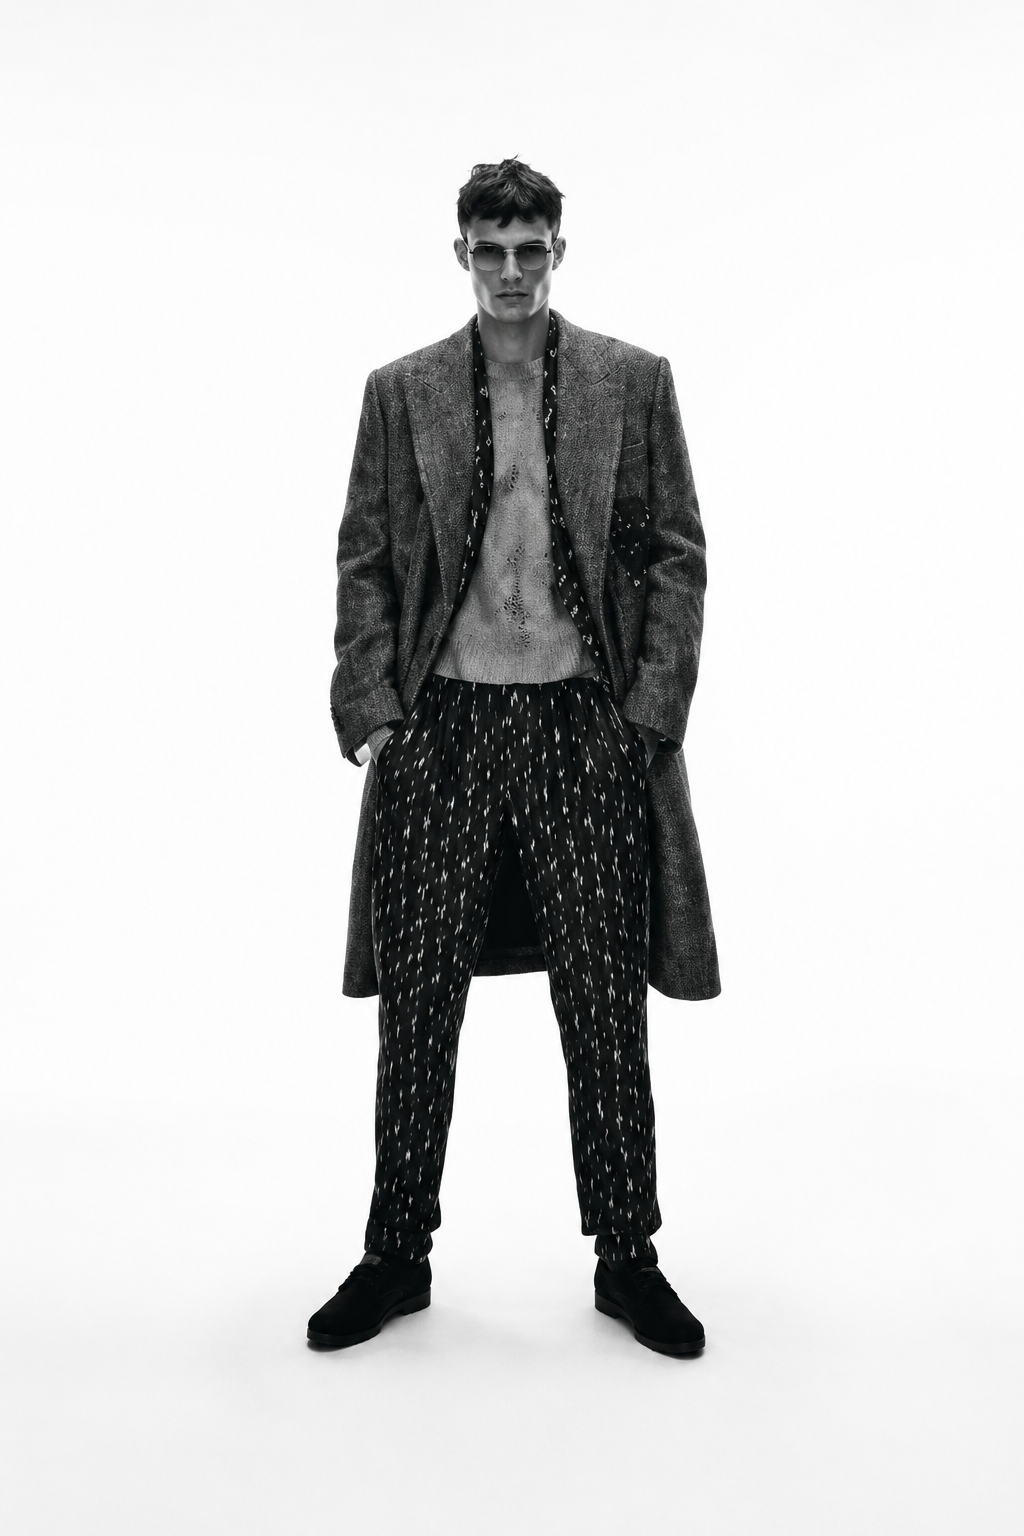
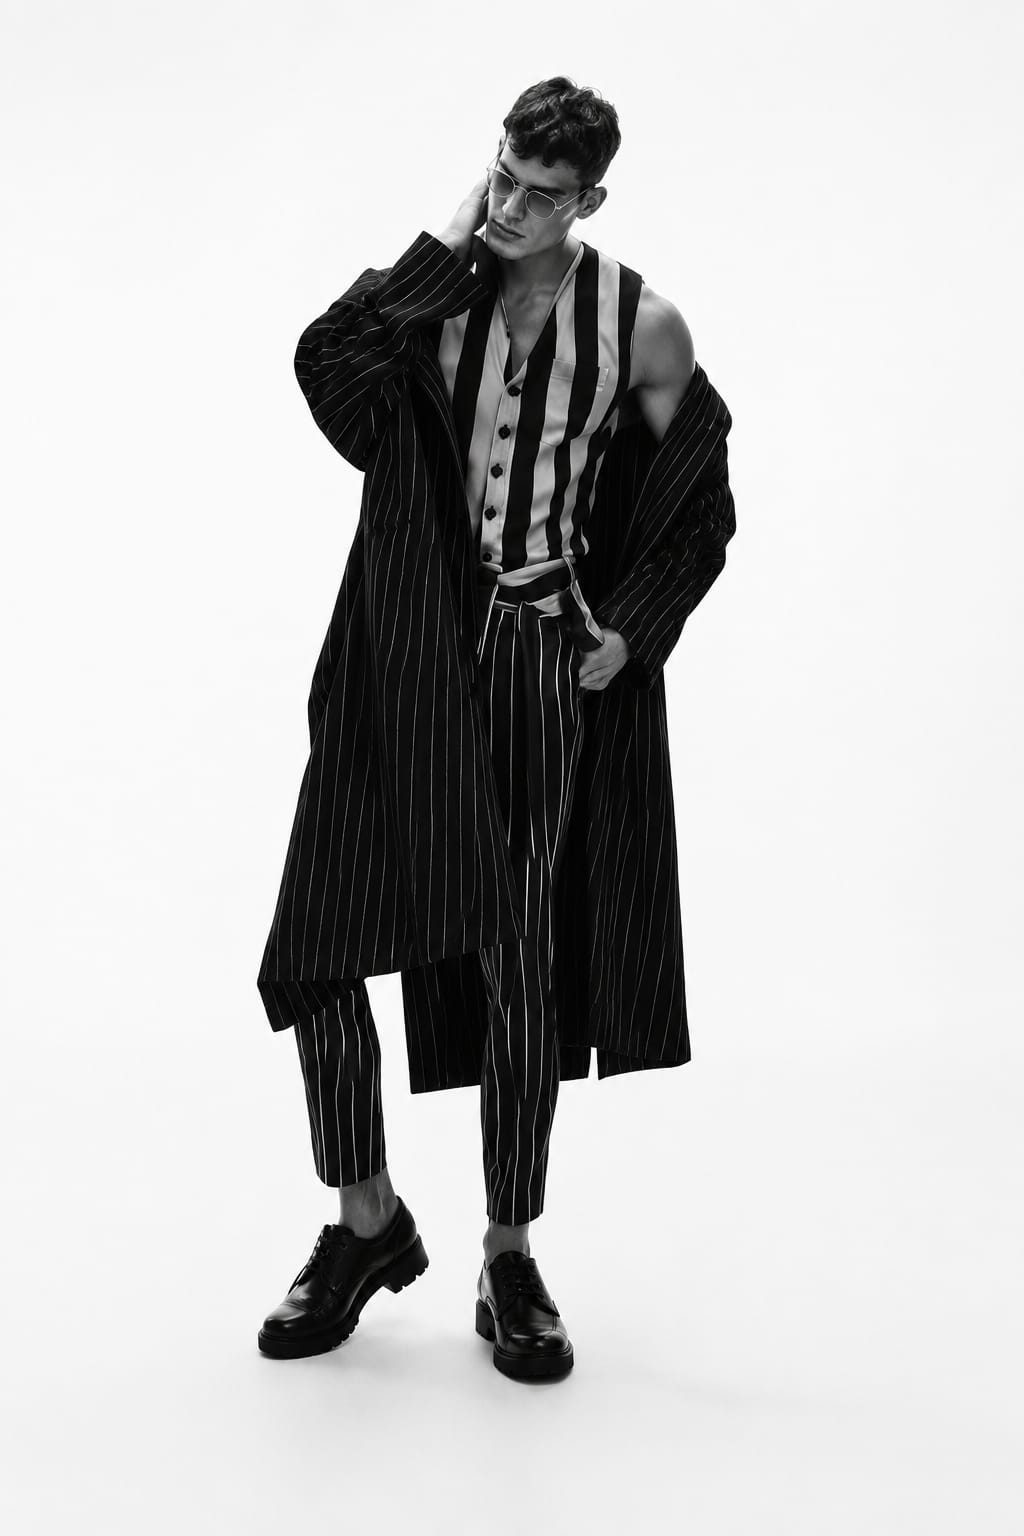
copy adjact pdf

Changed region(s): [[0.25, 0.0312, 0.7188, 0.9375]]

diff --git a/src/components/hustle-hour/Navbar.tsx b/src/components/hustle-hour/Navbar.tsx
@@ -1,4 +1,4 @@
-import React, { useState, useEffect } from 'react';
+import React, { useState } from 'react';
 import { Link, useNavigate } from 'react-router-dom';
 import { Menu, Search, ShoppingBag, User } from 'lucide-react';
 import { cn } from '../../lib/utils';
@@ -8,107 +8,117 @@ import Sidebar from './Sidebar';
 
 const Navbar: React.FC = () => {
     const navigate = useNavigate();
-    const [isScrolled, setIsScrolled] = useState(false);
     const [isSidebarOpen, setIsSidebarOpen] = useState(false);
+    const [isToggleOn, setIsToggleOn] = useState(false);
 
     const authState = useAuthStore((state) => state);
     const cartState = useAppralStore((state) => state.cart);
     const cartCount = cartState.data?.item_count ?? 0;
 
-    useEffect(() => {
-        const handleScroll = () => {
-            setIsScrolled(window.scrollY > 30);
-        };
-        window.addEventListener('scroll', handleScroll);
-        return () => window.removeEventListener('scroll', handleScroll);
-    }, []);
-
     return (
         <>
-            <nav
-                className={cn(
-                    "fixed top-0 left-0 w-full z-[1000] flex items-center justify-between px-6 md:px-12 lg:px-16 transition-all duration-500",
-                    isScrolled
-                        ? "glass-nav py-4 shadow-sm"
-                        : "bg-transparent py-7"
-                )}
-            >
-                {/* Left Side: Hamburger Menu & Elegant Logo */}
-                <div className="flex items-center gap-6 md:gap-8">
-                    <button
-                        onClick={() => setIsSidebarOpen(true)}
-                        className="p-2 -ml-2 hover:text-accent transition-colors text-foreground"
-                        aria-label="Open Sidebar Menu"
-                    >
-                        <Menu className="w-5 h-5 transition-transform duration-300 hover:scale-110" />
-                    </button>
-                    <Link 
-                        to="/" 
-                        className="font-display text-2xl md:text-3xl tracking-tighter text-foreground leading-none hover:text-accent transition-colors duration-300"
-                    >
-                        4.10<span className="text-accent">.</span>
-                    </Link>
+            <header className="fixed top-0 left-0 w-full z-[1000] flex flex-col border-b border-black/5 bg-background shadow-xs">
+                {/* Top Announcement Bar */}
+                <div className="w-full bg-[#1c1a17] text-white text-center py-2 flex items-center justify-center select-none">
+                    <span className="font-body text-[8.5px] sm:text-[9.5px] tracking-[0.25em] uppercase font-bold text-white/95">
+                        SPRING SALE LIVE NOW &nbsp;|&nbsp; UPTO 60% OFF
+                    </span>
                 </div>
 
-                {/* Center: High-Fashion Spaced Out Navigation Links (Desktop) */}
-                <ul className="hidden lg:flex gap-8 xl:gap-10 list-none absolute left-1/2 -translate-x-1/2 select-none">
-                    {['About', 'Hub', 'Timelines', 'Projects', 'Stories'].map((item) => (
-                        <li key={item}>
-                            <a
-                                href={`#${item.toLowerCase().replace(' ', '-')}`}
-                                className="link-underline font-body text-[9.5px] tracking-[0.25em] uppercase text-foreground/80 hover:text-foreground font-extrabold transition-all duration-300"
-                            >
-                                {item}
-                            </a>
-                        </li>
-                    ))}
-                </ul>
-
-                {/* Right Side: Interactive Action Icons & Call to Action */}
-                <div className="flex items-center gap-3 md:gap-6">
-                    {/* Search & Profile Icons */}
-                    <div className="hidden sm:flex items-center gap-5 mr-1 md:mr-3">
-                        <button 
-                            className="p-1 text-foreground/80 hover:text-accent transition-colors"
-                            aria-label="Search Collection"
-                        >
-                            <Search className="w-4 h-4 transition-transform hover:scale-105" />
-                        </button>
+                {/* Main Navbar */}
+                <nav className="w-full bg-background flex items-center justify-between px-6 md:px-12 lg:px-16 py-4.5 select-none relative">
+                    {/* Left Side: Toggle switch, Links, and Hamburger for Mobile */}
+                    <div className="flex items-center gap-4 sm:gap-6 lg:gap-8">
                         <button
-                            onClick={() => authState.isAuthenticated ? navigate('/profile') : navigate('/login')}
-                            className="p-1 text-foreground/80 hover:text-accent transition-colors relative"
-                            aria-label="User Account Profile"
+                            onClick={() => setIsSidebarOpen(true)}
+                            className="lg:hidden p-1.5 -ml-1 text-[#1c1a17] hover:opacity-75 transition-opacity"
+                            aria-label="Open Sidebar Menu"
                         >
-                            <User className="w-4 h-4 transition-transform hover:scale-105" />
-                            {authState.isAuthenticated && (
-                                <span className="absolute top-0.5 right-0.5 bg-accent rounded-full w-1.5 h-1.5" />
-                            )}
+                            <Menu className="w-5 h-5 stroke-[1.75]" />
                         </button>
+                        
+                        {/* Capsule Toggle Switch */}
+                        <div 
+                            onClick={() => setIsToggleOn(prev => !prev)}
+                            className="w-[38px] h-[20px] rounded-full bg-[#1c1a17] p-[2.5px] transition-all duration-300 relative cursor-pointer flex items-center shadow-xs select-none"
+                        >
+                            <div 
+                                className={cn(
+                                    "w-[15px] h-[15px] rounded-full bg-white transition-all duration-300 shadow-xs",
+                                    isToggleOn ? "translate-x-[18px]" : "translate-x-0"
+                                )}
+                            />
+                        </div>
+
+                        {/* Navigation Links (Desktop) */}
+                        <ul className="hidden lg:flex items-center gap-6 xl:gap-8 list-none select-none">
+                            <li>
+                                <Link 
+                                    to="/products" 
+                                    className="font-body text-[11.5px] font-black tracking-[0.2em] uppercase text-[#10b981] hover:text-[#0b7f58] transition-colors duration-300"
+                                >
+                                    SALE
+                                </Link>
+                            </li>
+                            {['SHOP', 'ABOUT', 'BLOG'].map((item) => (
+                                <li key={item}>
+                                    <Link
+                                        to={item === 'SHOP' ? '/products' : item === 'ABOUT' ? '/about' : '#'}
+                                        className="font-body text-[11.5px] font-extrabold tracking-[0.2em] uppercase text-[#1c1a17]/85 hover:text-[#1c1a17] link-underline transition-all duration-300"
+                                    >
+                                        {item}
+                                    </Link>
+                                </li>
+                            ))}
+                        </ul>
                     </div>
 
-                    {/* Subscription CTA: Solid Java-Espresso button blending into Accent on hover */}
-                    <Link
-                        to="/login"
-                        className="hidden md:block font-body text-[9px] tracking-[0.25em] uppercase px-5 py-2.5 bg-foreground text-background hover:bg-accent hover:text-[#f5f3ef] transition-all duration-500 rounded-[3px] font-bold shadow-sm select-none"
-                    >
-                        {authState.isAuthenticated ? 'Account' : 'Subscribe →'}
-                    </Link>
+                    {/* Center: High-Fashion Spaced Out Brand Logo */}
+                    <div className="absolute left-1/2 top-1/2 -translate-x-1/2 -translate-y-1/2">
+                        <Link 
+                            to="/" 
+                            className="font-serif font-black text-3xl md:text-[38px] tracking-tight text-[#1c1a17] leading-none hover:opacity-80 transition-opacity"
+                        >
+                            4.10
+                        </Link>
+                    </div>
 
-                    {/* Shopping Bag Icon with Cart Count */}
-                    <Link 
-                        to="/cart" 
-                        className="p-2 hover:text-accent transition-colors text-foreground relative"
-                        aria-label="Shopping Cart Bag"
-                    >
-                        <ShoppingBag className="w-5 h-5 transition-transform duration-300 hover:scale-110" />
-                        {cartCount > 0 && (
-                            <span className="absolute top-0 right-0 bg-accent text-[#f5f3ef] text-[8px] font-bold w-4 h-4 rounded-full flex items-center justify-center animate-pulse">
+                    {/* Right Side: Interactive Outline Icons */}
+                    <div className="flex items-center gap-4.5 md:gap-6">
+                        {/* Search Action */}
+                        <button 
+                            className="p-1 text-[#1c1a17] hover:opacity-75 transition-opacity cursor-pointer"
+                            aria-label="Search Collection"
+                        >
+                            <Search className="w-[18px] h-[18px] stroke-[1.5] transition-transform hover:scale-105" />
+                        </button>
+
+                        {/* Profile/Auth Action */}
+                        <button
+                            onClick={() => authState.isAuthenticated ? navigate('/profile') : navigate('/login')}
+                            className="p-1 text-[#1c1a17] hover:opacity-75 transition-opacity relative cursor-pointer"
+                            aria-label="User Account Profile"
+                        >
+                            <User className="w-[18px] h-[18px] stroke-[1.5] transition-transform hover:scale-105" />
+                            {authState.isAuthenticated && (
+                                <span className="absolute top-0 right-0 bg-[#8a4f35] rounded-full w-2 h-2 border border-background" />
+                            )}
+                        </button>
+
+                        {/* Shopping Bag Count Indicator */}
+                        <Link 
+                            to="/cart" 
+                            className="p-1.5 text-[#1c1a17] hover:opacity-75 transition-opacity relative cursor-pointer inline-flex items-center"
+                            aria-label="Shopping Cart Bag"
+                        >
+                            <ShoppingBag className="w-[18px] h-[18px] stroke-[1.5] transition-transform duration-300 hover:scale-105" />
+                            <span className="absolute -top-1 -right-1.5 bg-black text-white text-[9px] font-black w-4 h-4 rounded-full flex items-center justify-center">
                                 {cartCount}
                             </span>
-                        )}
-                    </Link>
-                </div>
-            </nav>
+                        </Link>
+                    </div>
+                </nav>
+            </header>
 
             {/* Slide-out Sidebar Component */}
             <Sidebar isOpen={isSidebarOpen} onClose={() => setIsSidebarOpen(false)} />

diff --git a/src/sections/hustle-hour/Campaign.tsx b/src/sections/hustle-hour/Campaign.tsx
@@ -1,4 +1,4 @@
-import React, { useState } from 'react';
+import React from 'react';
 
 interface ModelItem {
     id: number;
@@ -13,7 +13,7 @@ interface ModelItem {
     isCenter?: boolean;
 }
 
-// Balanced offsets between 4% and 92% to prevent overflow/clipping on the right edge
+// Balanced offsets between 4% and 92% to pack them tightly inside the 960px container
 const MODELS: ModelItem[] = [
     { id: 1, src: '/SHOP/collection1.png', left: '4%', scale: 0.50, blurNum: 6, opacityNum: 0.15, zIndex: 10, floatDuration: '6.5s', floatDelay: '0s' },
     { id: 2, src: '/SHOP/collection2.png', left: '11%', scale: 0.58, blurNum: 5, opacityNum: 0.25, zIndex: 10, floatDuration: '7.2s', floatDelay: '-1.5s' },
@@ -32,98 +32,48 @@ const MODELS: ModelItem[] = [
 ];
 
 const Campaign: React.FC = () => {
-    const [hoveredIdx, setHoveredIdx] = useState<number | null>(null);
-
     return (
         <section 
             id="campaign" 
-            className="relative w-full bg-background py-20 md:py-24 overflow-hidden select-none"
+            className="relative w-full bg-background py-16 md:py-20 lg:py-24 overflow-hidden select-none"
         >
-            {/* Inject vertical floating keyframes directly */}
-            <style dangerouslySetInnerHTML={{__html: `
-                @keyframes floatSway {
-                    0%, 100% { transform: translateY(0); }
-                    50% { transform: translateY(-8px); }
-                }
-                .animate-float {
-                    animation-name: floatSway;
-                    animation-iteration-count: infinite;
-                    animation-timing-function: ease-in-out;
-                }
-            `}} />
-
             {/* Subtle Grain Overlay */}
             <div className="absolute inset-0 z-[1] hero-grain opacity-[0.08] pointer-events-none" />
 
             {/* Layout Wrapper: Spans and centers the grid cleanly */}
             <div className="relative w-full max-w-[1550px] mx-auto z-10 px-6 md:px-12 lg:px-16 xl:px-20">
                 
-                {/* 1. Header with stylized brown text and separator line */}
-                <div className="w-full flex items-baseline gap-6 mb-12 md:mb-16 select-none">
-                    <h2 className="font-serif font-black italic tracking-wide uppercase text-[24px] md:text-[34px] lg:text-[40px] text-accent leading-none whitespace-nowrap">
-                        Shop By Collection
-                    </h2>
-                    <div className="w-full h-[1px] bg-accent/40 relative top-[-6px]" />
-                </div>
-
-                {/* 2. Absolute Parallax Horizontal Perspective Lineup (Contained within standard bounds) */}
-                <div className="relative w-full h-[480px] md:h-[560px] lg:h-[640px] flex items-end justify-center select-none overflow-hidden pb-12 border-b border-foreground/5 z-10">
+                {/* Spaced-out horizontal perspective lineup spanning the container width */}
+                <div className="relative w-full h-[480px] md:h-[560px] lg:h-[640px] flex items-end justify-center select-none pb-12 border-b border-foreground/5 z-10">
                     
                     {/* Background Models Stack Container */}
                     <div className="absolute inset-x-0 bottom-[12px] h-full flex items-end justify-center z-10">
-                        {MODELS.map((col, idx) => {
-                            const isHovered = hoveredIdx === idx;
-                            const isAnyHovered = hoveredIdx !== null;
+                        {MODELS.map((col) => {
+                            const scale = col.isCenter ? 1.05 : col.scale;
+                            const opacity = col.opacityNum;
+                            const blur = col.blurNum;
+                            const zIndex = col.zIndex;
 
-                            // Compute dynamic styles based on hover state for a fully interactive lookup experience
-                            let scale = col.isCenter ? 1.05 : col.scale;
-                            let opacity = col.opacityNum;
-                            let blur = col.blurNum;
-                            let zIndex = col.zIndex;
-                            let offsetY = 0;
-
-                            if (isAnyHovered) {
-                                if (isHovered) {
-                                    scale = col.isCenter ? 1.08 : col.scale * 1.16;
-                                    opacity = 1.0;
-                                    blur = 0;
-                                    zIndex = 50; // Bring hovered model to the absolute front
-                                    offsetY = -22; // Lift model up elegantly
-                                } else {
-                                    // Fade and blur other models slightly to emphasize focus
-                                    opacity = col.opacityNum * 0.55;
-                                    blur = col.blurNum + 2.5;
-                                    zIndex = col.zIndex - 5;
-                                }
-                            }
-
-                            // Horizontal positioning alignment
                             const translateStyle = col.isCenter 
-                                ? `translateX(-50%) translateY(${offsetY}px) scale(${scale})` 
-                                : `translateY(${offsetY}px) scale(${scale})`;
+                                ? 'translateX(-50%) scale(1.05)' 
+                                : `translateX(-50%) scale(${scale})`;
 
                             return (
                                 <div
                                     key={col.id}
-                                    className={`absolute bottom-[-15px] pointer-events-auto cursor-pointer transition-all duration-[800ms] ease-[cubic-bezier(0.16,1,0.3,1)] ${
-                                        isAnyHovered ? '' : 'animate-float'
-                                    }`}
+                                    className="absolute bottom-[-15px] select-none mix-blend-multiply"
                                     style={{
                                         left: col.left,
                                         transform: translateStyle,
                                         zIndex: zIndex,
-                                        animationDuration: col.floatDuration,
-                                        animationDelay: col.floatDelay,
                                     }}
-                                    onMouseEnter={() => setHoveredIdx(idx)}
-                                    onMouseLeave={() => setHoveredIdx(null)}
                                 >
                                     <img
                                         src={col.src}
                                         alt="Collection Silhouette Model"
-                                        className="max-w-none w-[180px] md:w-[220px] lg:w-[260px] h-auto object-contain select-none transition-all duration-[800ms] ease-[cubic-bezier(0.16,1,0.3,1)]"
+                                        className="max-w-none w-[180px] md:w-[220px] lg:w-[260px] h-auto object-contain select-none mix-blend-multiply"
                                         style={{
-                                            filter: `blur(${blur}px) grayscale(${isHovered ? 0 : 0.1})`,
+                                            filter: `blur(${blur}px) grayscale(0.1)`,
                                             opacity: opacity,
                                         }}
                                     />
@@ -132,7 +82,7 @@ const Campaign: React.FC = () => {
                         })}
                     </div>
 
-                    {/* 3. Overlay Typography Details Block 1 (Left near Model 4/5) */}
+                    {/* Overlay Typography Details Block 1 (Left near Model 4/5) */}
                     <div className="absolute left-[16%] md:left-[22%] lg:left-[25%] bottom-[12%] z-25 text-left select-none text-[8.5px] md:text-[9.5px] leading-[1.6] font-body text-foreground/80 hidden md:block">
                         <div className="flex flex-col gap-1.5 font-body">
                             <span className="font-extrabold tracking-[0.25em] text-[10px] text-foreground/85">MENSWEAR</span>
@@ -152,7 +102,7 @@ const Campaign: React.FC = () => {
                         </div>
                     </div>
 
-                    {/* 4. Overlay Typography Details Block 2 (Center near Central Model 7) */}
+                    {/* Overlay Typography Details Block 2 (Center near Central Model 7) */}
                     <div className="absolute left-[34%] md:left-[39%] lg:left-[41.5%] bottom-[16%] z-25 text-left select-none text-[8.5px] md:text-[9.5px] leading-[1.6] font-body text-foreground/80 hidden lg:block">
                         <div className="flex flex-col gap-1.5 font-body">
                             <span className="font-extrabold tracking-[0.25em] text-[10px] text-foreground/85">MENSWEAR</span>
@@ -172,7 +122,7 @@ const Campaign: React.FC = () => {
                         </div>
                     </div>
 
-                    {/* 5. Bottom Right Interactive Cursive / Link Indicator Icon */}
+                    {/* Bottom Right Interactive Cursive / Link Indicator Icon */}
                     <div className="absolute right-8 bottom-6 text-foreground/45 hover:text-foreground text-[10px] font-mono tracking-widest cursor-pointer transition-all duration-300 z-20 font-bold">
                         .. ↗
                     </div>

diff --git a/src/App.tsx b/src/App.tsx
@@ -15,7 +15,6 @@ import { ToastProvider } from "./components/ui/ToastProvider";
 import Navbar from "./components/hustle-hour/Navbar";
 import CustomCursor from "./components/hustle-hour/CustomCursor";
 import Hero from "./sections/hustle-hour/Hero";
-import Marquee from "./components/hustle-hour/Marquee";
 import Chronicle from "./sections/hustle-hour/Chronicle";
 import Collections from "./sections/hustle-hour/Collections";
 import Campaign from "./sections/hustle-hour/Campaign";
@@ -55,7 +54,6 @@ const HomePage = () => {
         <div className="reveal">
           <Collections />
         </div>
-        <Marquee light />
         <div className="reveal">
           <Campaign />
         </div>

diff --git a/src/pages/AboutPage.tsx b/src/pages/AboutPage.tsx
@@ -5,7 +5,7 @@ import Footer from "../components/Footer";
 
 const coreValues = [
   {
-    icon: <Sparkles className="h-6 w-6 text-[#d4b896]" />,
+    icon: <Sparkles className="h-6 w-6 text-[#d4b896]" />, 
     title: "Design-led Craft",
     description:
       "Every silhouette starts with a sketch that balances modern lines with timeless appeal."
